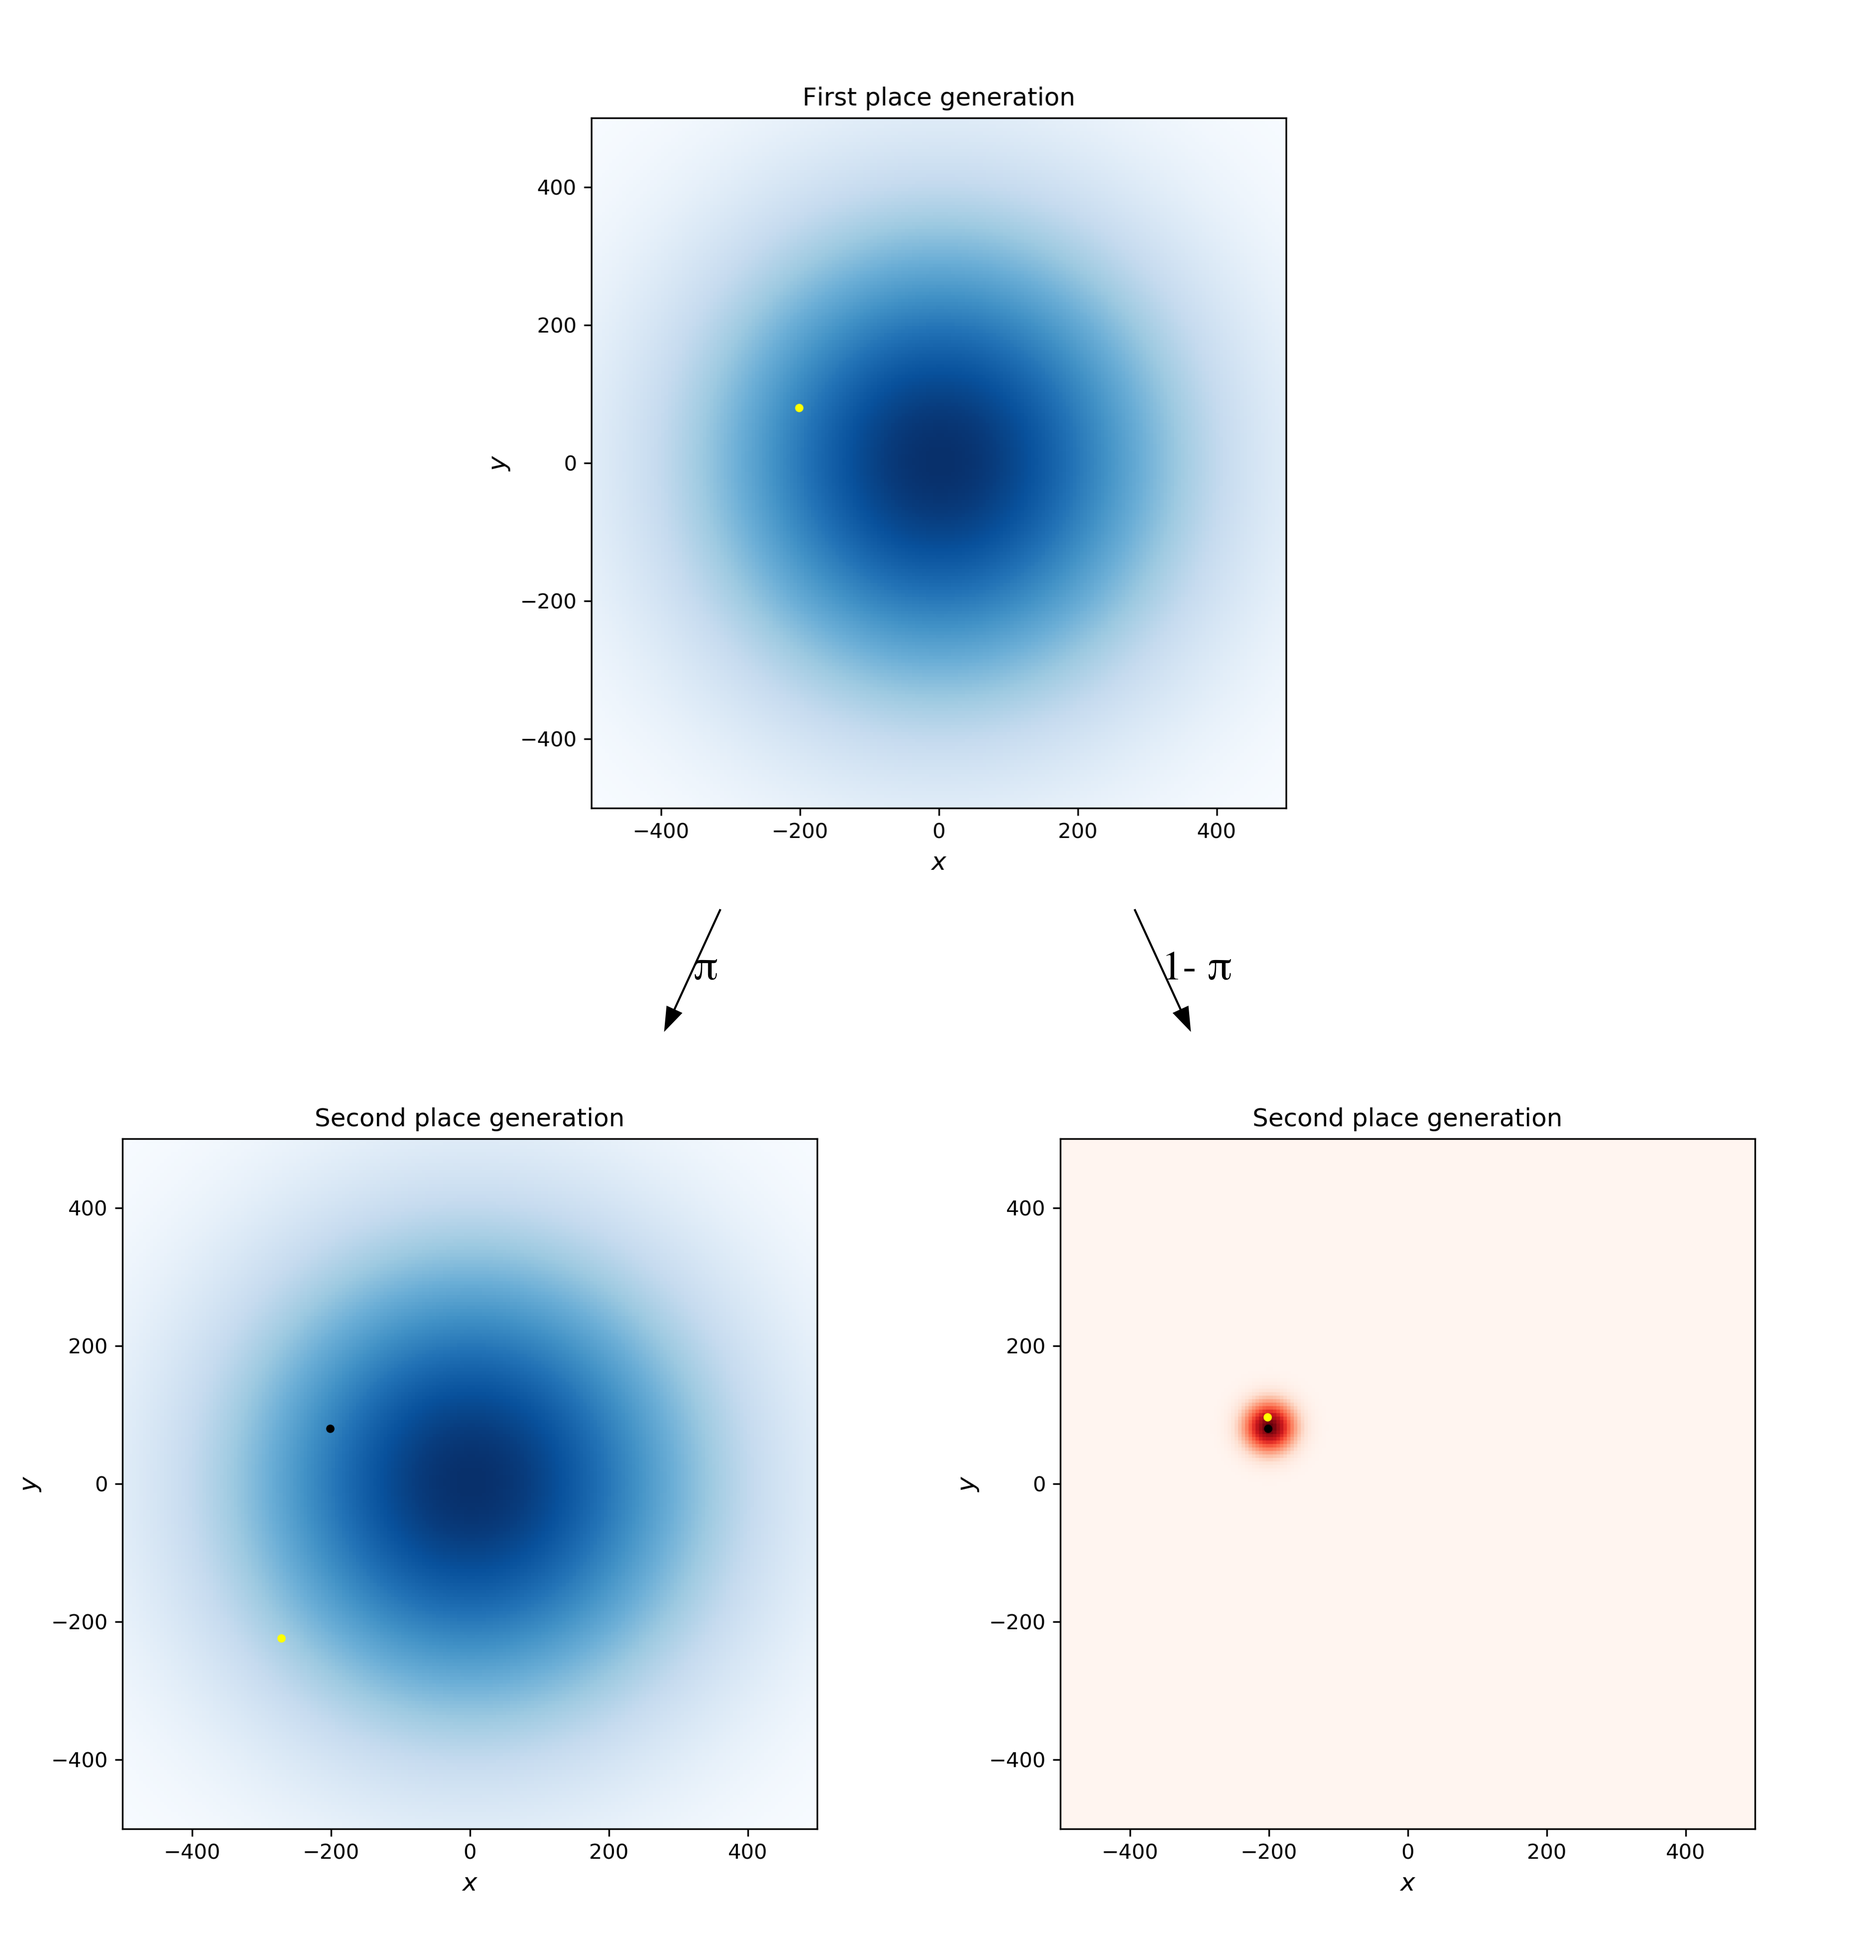
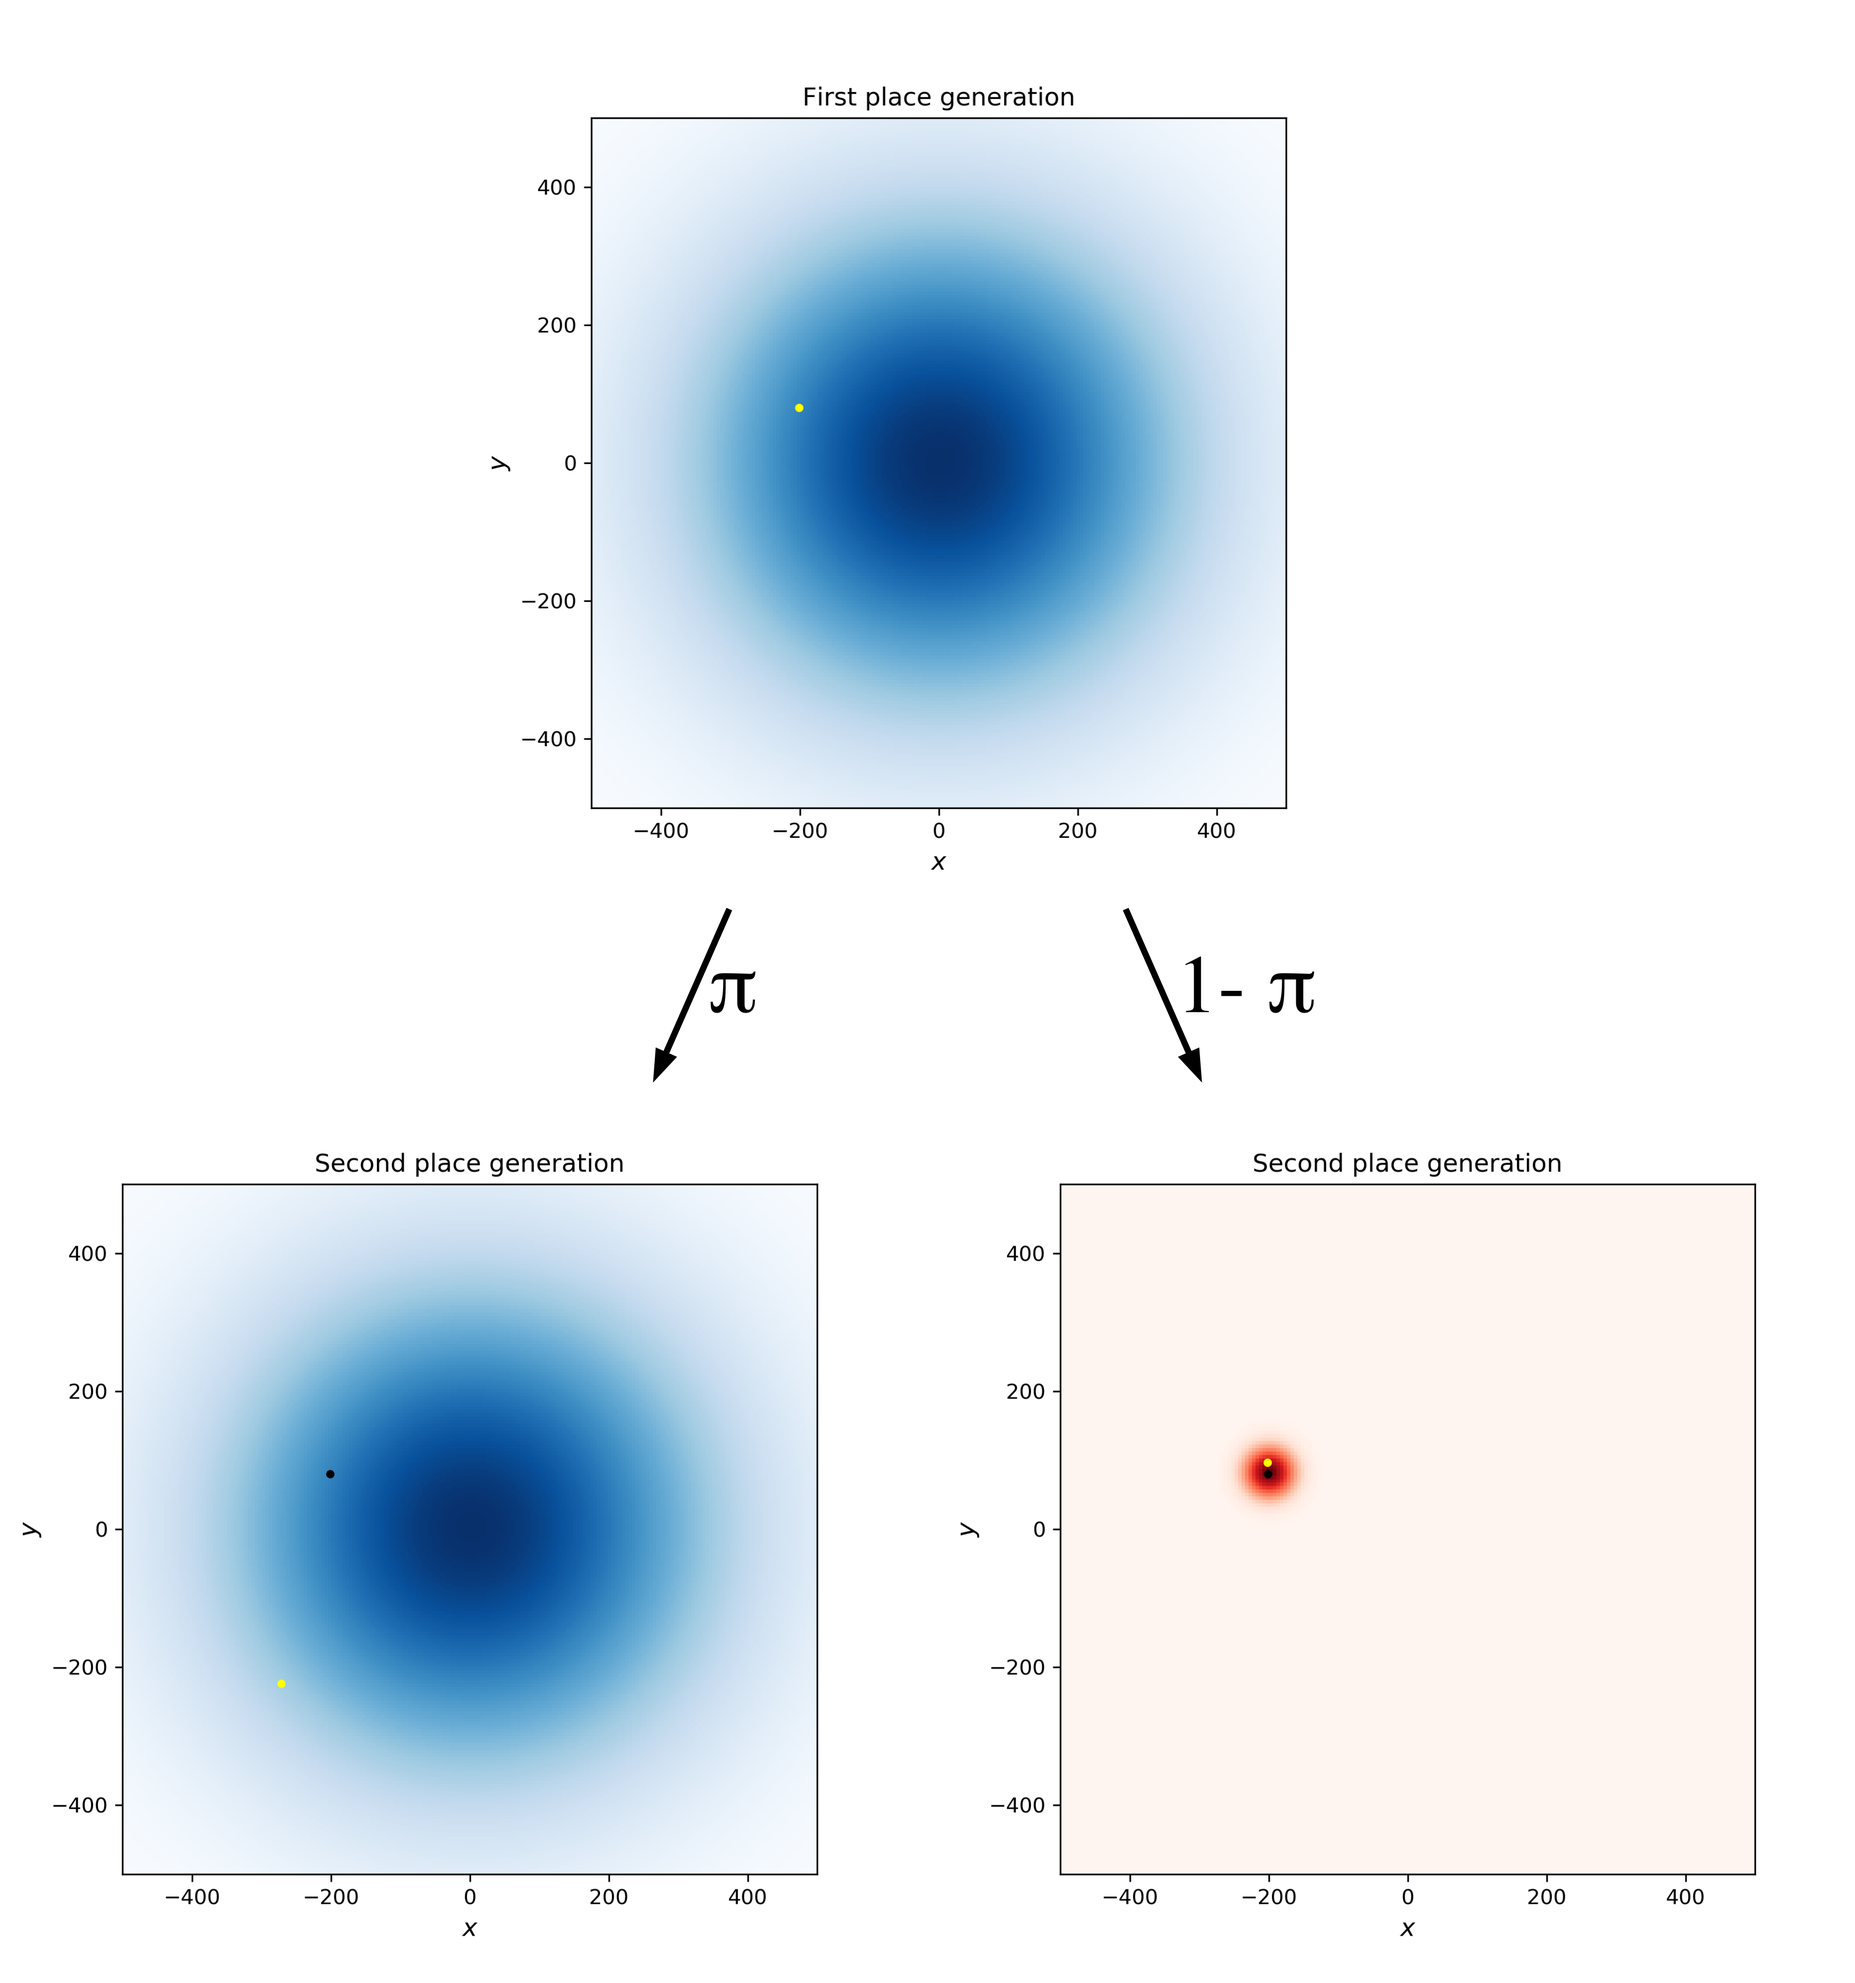
Figures modified

diff --git a/figures_for_readme/mkfig_for_readme.py b/figures_for_readme/mkfig_for_readme.py
@@ -1,5 +1,6 @@
 # coding: utf-8
-# import PIL
+# This script is prepared for the figure generation of the readme.md file. 
+# Need numpy, matpotlib, scipy, PIL and graphiviz.
 
 import numpy as np
 import matplotlib.pyplot as plt
@@ -8,12 +9,10 @@ from scipy.stats import multivariate_normal
 from PIL import Image, ImageDraw, ImageFont, ImageFilter
 from graphviz import Digraph
 
-
-
 def mk_graph():
-    fontsize = '20'
+    fontsize = '40'
     fontcolor = 'black'
-    pw = '1'
+    pw = '3'
     g = Digraph(comment = 'Graph',format='png')
     # g.attr(rankdir='LR')
     g.attr(dpi='300')
@@ -41,9 +40,9 @@ def mk_graph():
     print('done.')
 
 def mk_graph_loop():
-    fontsize = '20'
+    fontsize = '40'
     fontcolor = 'black'
-    pw = '1'
+    pw = '3'
     g = Digraph(comment = 'Graph',format='png')
     # g.attr(rankdir='LR')
     g.attr(dpi='300')
@@ -69,11 +68,11 @@ def mk_graph_loop():
     fontcolor = fontcolor
     )
 
-    g.edge('0','1',penwidth = pw,label='',fontsize=fontsize)
-    g.edge('0','2',penwidth = pw,label='',fontsize=fontsize)
+    g.edge('0','1',penwidth = pw,label='π',fontsize=fontsize)
+    g.edge('0','2',penwidth = pw,label='1-π',fontsize=fontsize)
     g.edge('2','3',penwidth = pw,label='',fontsize=fontsize)
-    g.edge('3','0',penwidth = pw,label='',fontsize=fontsize, headport='e',tailport = 'e')
-    g.edge('1','0',penwidth = pw,label='',fontsize=fontsize, headport='w',tailport = 'w')
+    g.edge('3','0',penwidth = pw,label='Loop for\nthe next trial',fontsize=fontsize, headport='e',tailport = 'e')
+    g.edge('1','0',penwidth = pw,label='Loop for\nthe next trial',fontsize=fontsize, headport='w',tailport = 'w')
     g.body.append('{rank=same; 1; 3;}')
 
     g.render('loop_process')
@@ -267,7 +266,6 @@ def main():
     # plot_scatter_LP()
     mk_graph()
     mk_graph_loop()
-
 
 if __name__ == "__main__":
     main()
